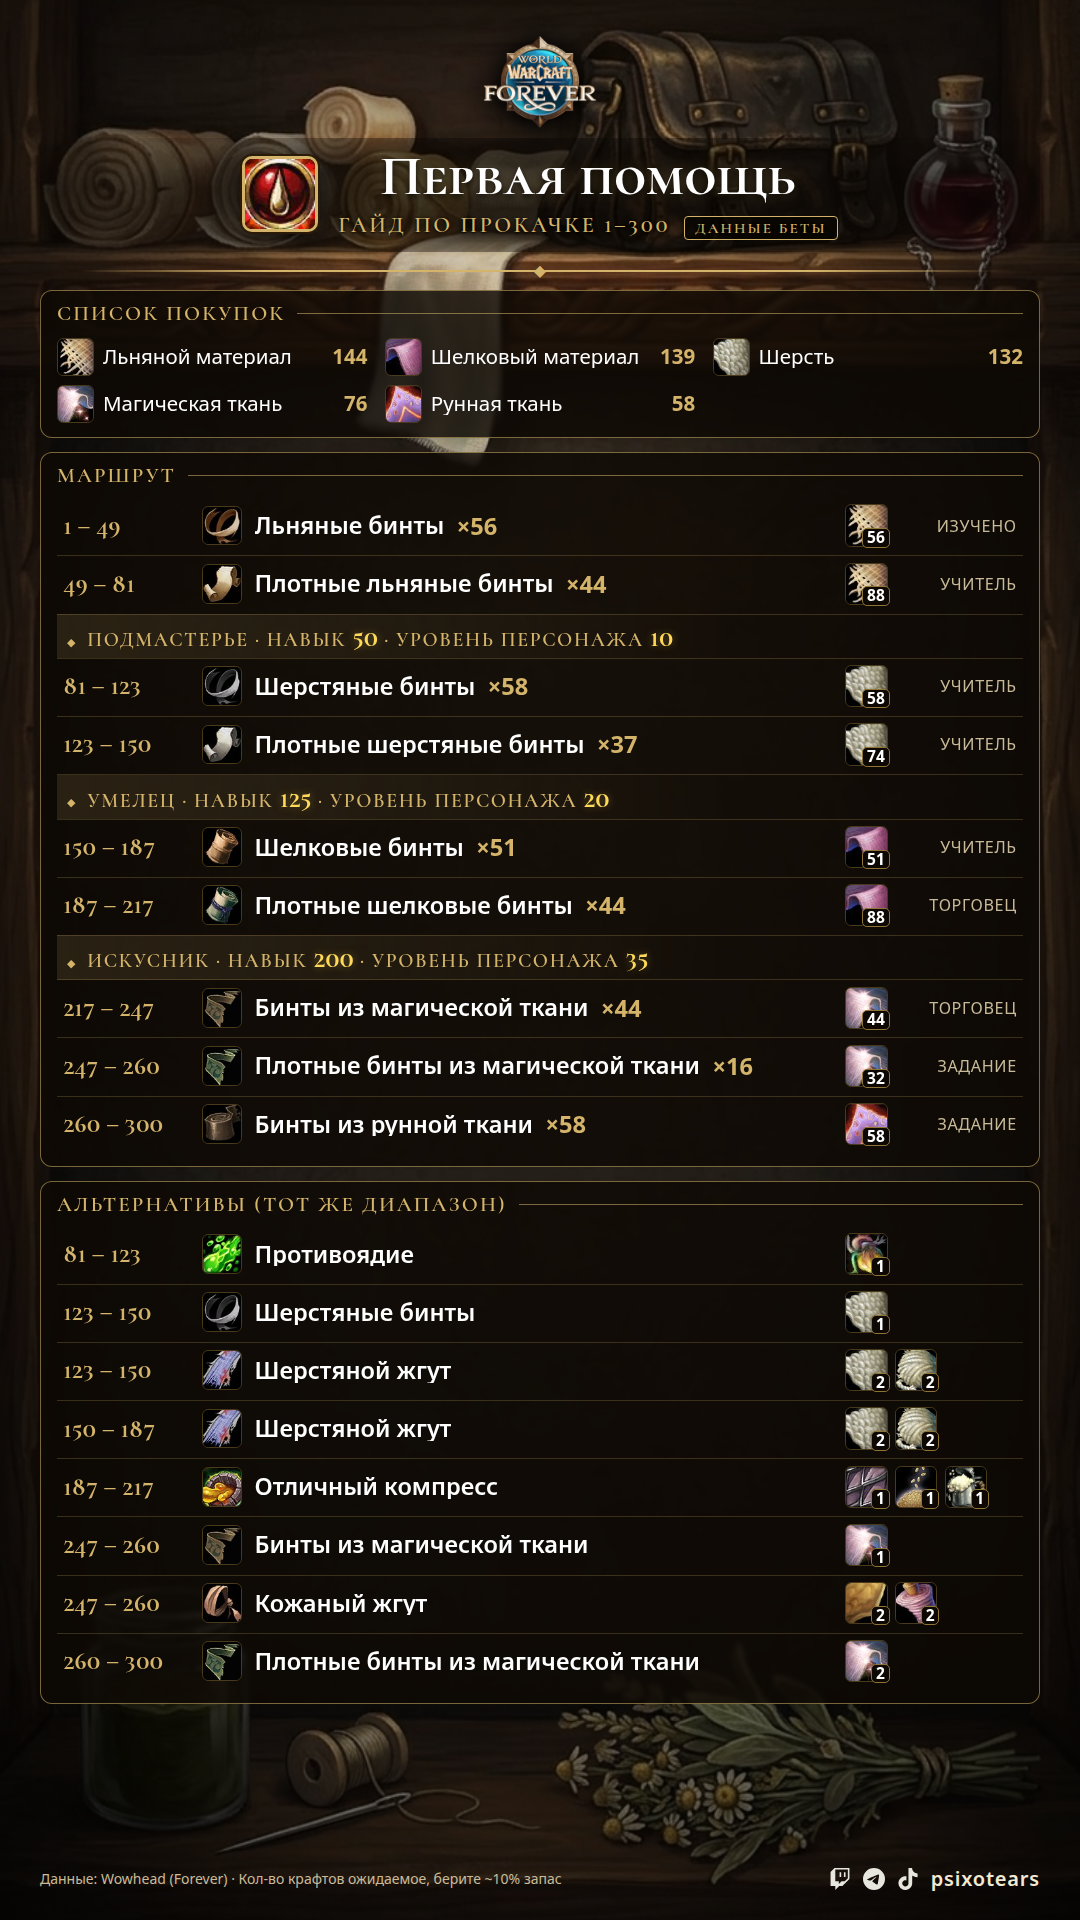
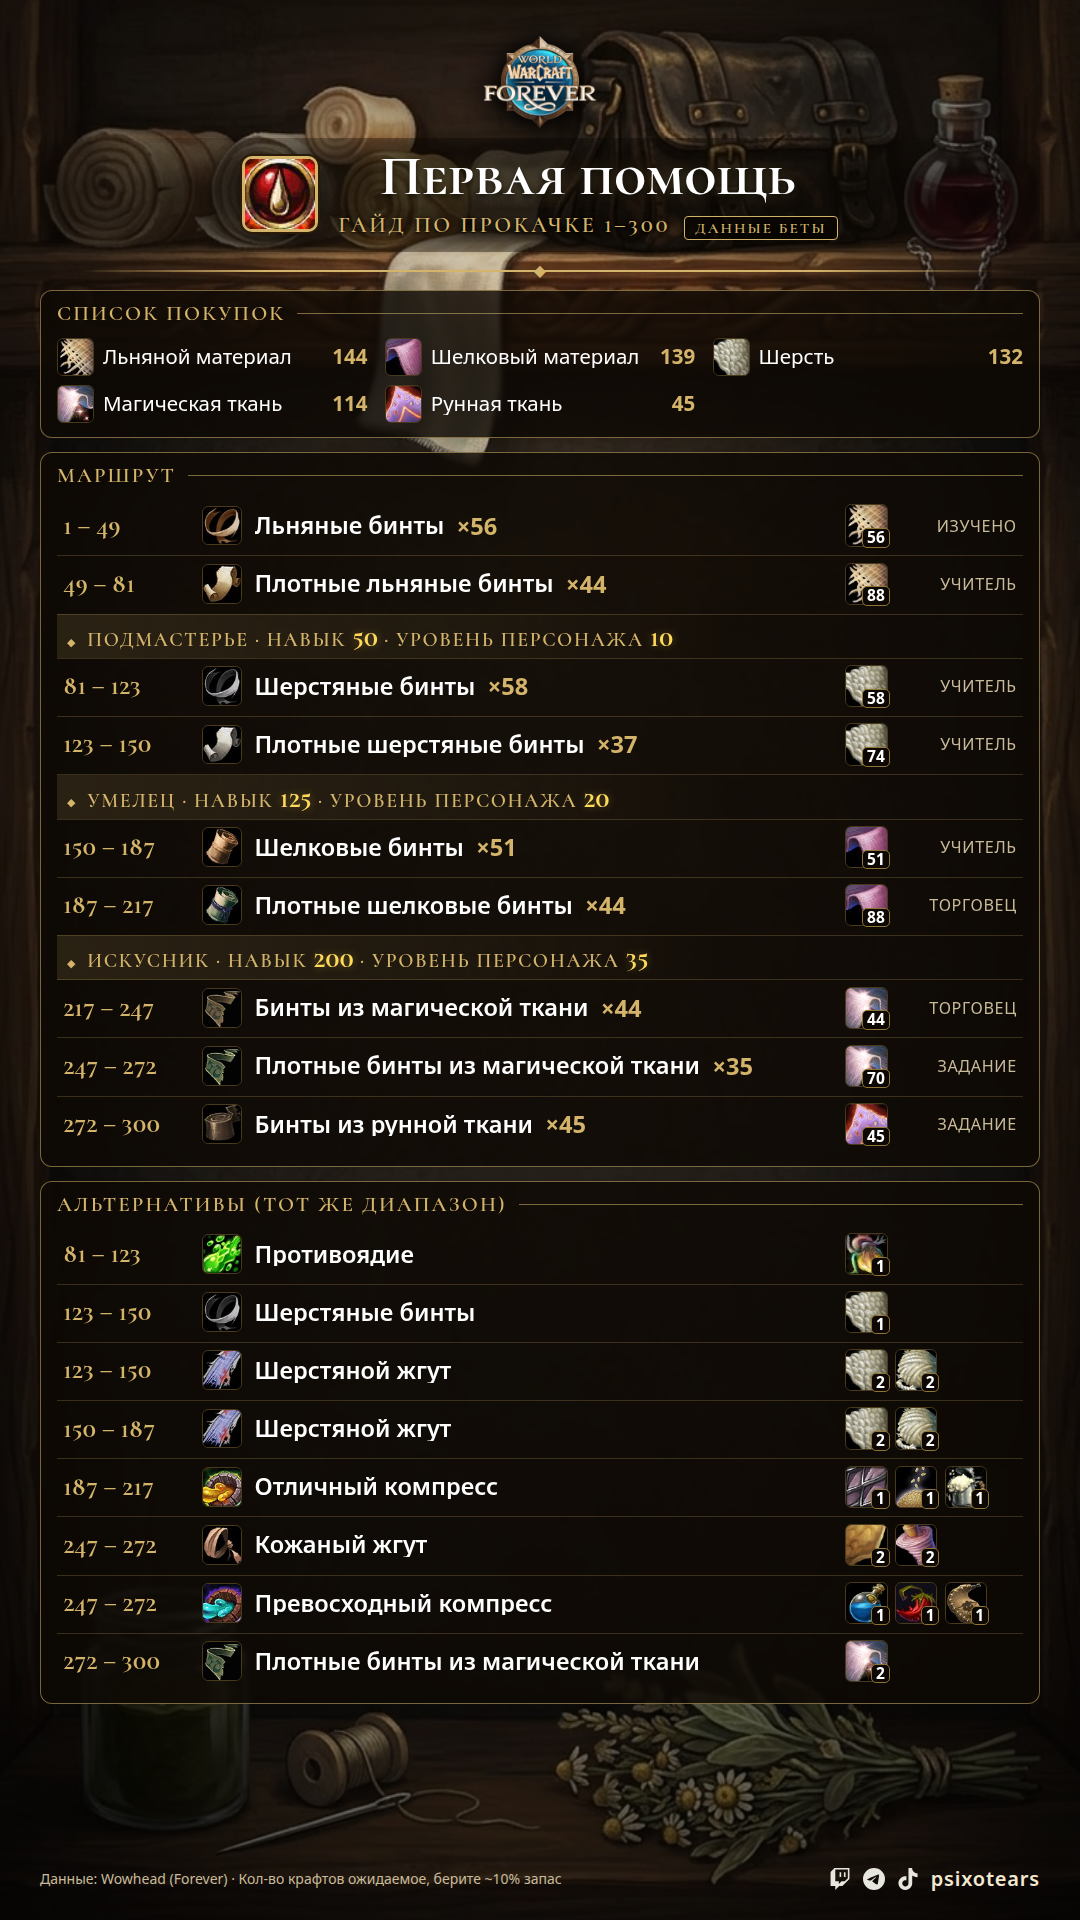
Routes: fill missing color thresholds, exclude rare/unnamed reagents, less fragmentation; 7-language item names; re-render RU crafting cards
Claude-Session: https://claude.ai/code/session_012e8LnHD2AptEEnhumMxWH2

diff --git a/wow-cards/pipeline/render.py b/wow-cards/pipeline/render.py
@@ -4,37 +4,81 @@ Usage: python3 render.py <profession> <lang> [background.png]  -> out/html/<prof
 import json, sys, os, html
 
 UI = {
-    'en': {'guide': 'Leveling Guide 1–300', 'shopping': 'Shopping List', 'ranknames': ['Journeyman', 'Expert', 'Artisan'], 'charlvl': 'character level', 'skilllbl': 'skill', 'steps': 'Route', 'alts': 'Alternatives (same skill range)', 'nodes': 'Nodes by skill', 'skill': 'Skill', 'where': 'Where to find', 'moblvl': 'Mob level', 'zones': 'Zones', 'ooze': 'also ooze-covered', 'nogetaway': 'No get-aways from', 'fishnote': 'Zone thresholds from WoW Classic — to be verified in the Forever beta', 'fguide': 'Fishing Guide 1–300', 'skinnote': 'Required skill: (mob level − 10) × 10 up to level 20, then mob level × 5', 'gguide': 'Gathering Guide 1–300', 'trainer': 'Trainer', 'vendor': 'Vendor',
+    'en': {'guide': 'Leveling Guide 1–300', 'shopping': 'Shopping List', 'steps': 'Route', 'trainer': 'Trainer', 'vendor': 'Vendor',
            'quest': 'Quest', 'auto': 'Starter', 'drop': 'Drop', 'unknown': '?', 'item?': '?',
+           'ranknames': ['Journeyman', 'Expert', 'Artisan'], 'charlvl': 'character level', 'skilllbl': 'skill',
+           'alts': 'Alternatives (same skill range)', 'nodes': 'Nodes by skill', 'skill': 'Skill', 'where': 'Where to find', 'moblvl': 'Mob level', 'zones': 'Zones',
+           'ooze': 'also ooze-covered', 'skinnote': 'Required skill: (mob level − 10) × 10 up to level 20, then mob level × 5', 'gguide': 'Gathering Guide 1–300',
+           'nogetaway': 'No get-aways from', 'fishnote': 'Zone thresholds from WoW Classic — to be verified in the Forever beta', 'fguide': 'Fishing Guide 1–300',
            'beta': 'BETA DATA', 'src': 'Data: Wowhead (Forever) · Craft counts are expected values, buy ~10% extra',
            'ranks': 'Journeyman 50 · Expert 125 · Artisan 200', 'title': 'World of Warcraft: Forever'},
-    'ru': {'guide': 'Гайд по прокачке 1–300', 'shopping': 'Список покупок', 'ranknames': ['Подмастерье', 'Умелец', 'Искусник'], 'charlvl': 'уровень персонажа', 'skilllbl': 'навык', 'steps': 'Маршрут', 'alts': 'Альтернативы (тот же диапазон)', 'nodes': 'Узлы по навыку', 'skill': 'Навык', 'where': 'Где искать', 'moblvl': 'Уровень мобов', 'zones': 'Зоны', 'ooze': 'есть и покрытые слизью', 'nogetaway': 'Без срывов от', 'fishnote': 'Пороги зон взяты из WoW Classic — требуют проверки в бете Forever', 'fguide': 'Гайд по рыбалке 1–300', 'skinnote': 'Нужный навык: (уровень моба − 10) × 10 до 20 ур., дальше уровень моба × 5', 'gguide': 'Гайд по добыче 1–300', 'trainer': 'Учитель', 'vendor': 'Торговец',
+    'ru': {'guide': 'Гайд по прокачке 1–300', 'shopping': 'Список покупок', 'steps': 'Маршрут', 'trainer': 'Учитель', 'vendor': 'Торговец',
            'quest': 'Задание', 'auto': 'Изучено', 'drop': 'Добыча', 'unknown': '?', 'item?': '?',
+           'ranknames': ['Подмастерье', 'Умелец', 'Искусник'], 'charlvl': 'уровень персонажа', 'skilllbl': 'навык',
+           'alts': 'Альтернативы (тот же диапазон)', 'nodes': 'Узлы по навыку', 'skill': 'Навык', 'where': 'Где искать', 'moblvl': 'Уровень мобов', 'zones': 'Зоны',
+           'ooze': 'есть и покрытые слизью', 'skinnote': 'Нужный навык: (уровень моба − 10) × 10 до 20 ур., дальше уровень моба × 5', 'gguide': 'Гайд по добыче 1–300',
+           'nogetaway': 'Без срывов от', 'fishnote': 'Пороги зон взяты из WoW Classic — требуют проверки в бете Forever', 'fguide': 'Гайд по рыбалке 1–300',
            'beta': 'ДАННЫЕ БЕТЫ', 'src': 'Данные: Wowhead (Forever) · Кол-во крафтов ожидаемое, берите ~10% запас',
            'ranks': 'Подмастерье 50 · Умелец 125 · Искусник 200', 'title': 'World of Warcraft: Forever'},
-    'cn': {'guide': '专业升级指南 1–300', 'shopping': '材料清单', 'ranknames': ['中级', '高级', '专家'], 'charlvl': '角色等级', 'skilllbl': '技能', 'steps': '路线', 'alts': '替代配方（同一区间）', 'nodes': '按技能等级的采集点', 'skill': '技能', 'where': '采集地点', 'moblvl': '怪物等级', 'zones': '区域', 'ooze': '含软泥覆盖变体', 'nogetaway': '不脱钩起始', 'fishnote': '区域门槛取自 WoW Classic，待 Forever 测试服验证', 'fguide': '钓鱼指南 1–300', 'skinnote': '所需技能：20级前为(怪物等级−10)×10，之后为怪物等级×5', 'gguide': '采集指南 1–300', 'trainer': '训练师', 'vendor': '商人',
+    'cn': {'guide': '专业升级指南 1–300', 'shopping': '材料清单', 'steps': '路线', 'trainer': '训练师', 'vendor': '商人',
            'quest': '任务', 'auto': '初始', 'drop': '掉落', 'unknown': '?', 'item?': '?',
+           'ranknames': ['中级', '高级', '专家'], 'charlvl': '角色等级', 'skilllbl': '技能',
+           'alts': '替代配方（同一区间）', 'nodes': '按技能等级的采集点', 'skill': '技能', 'where': '采集地点', 'moblvl': '怪物等级', 'zones': '区域',
+           'ooze': '含软泥覆盖变体', 'skinnote': '所需技能：20级前为(怪物等级−10)×10，之后为怪物等级×5', 'gguide': '采集指南 1–300',
+           'nogetaway': '不脱钩起始', 'fishnote': '区域门槛取自 WoW Classic，待 Forever 测试服验证', 'fguide': '钓鱼指南 1–300',
            'beta': '测试服数据', 'src': '数据：Wowhead (Forever) · 制作次数为期望值，建议多备约10%',
            'ranks': '中级 50 · 高级 125 · 专家 200', 'title': '魔兽世界：无限'},
+    'de': {'guide': 'Skillguide 1–300', 'shopping': 'Einkaufsliste', 'steps': 'Route', 'trainer': 'Lehrer', 'vendor': 'Händler',
+           'quest': 'Quest', 'auto': 'Start', 'drop': 'Drop', 'unknown': '?', 'item?': '?',
+           'ranknames': ['Geselle', 'Experte', 'Fachmann'], 'charlvl': 'Charakterstufe', 'skilllbl': 'Fertigkeit',
+           'alts': 'Alternativen (gleicher Bereich)', 'nodes': 'Vorkommen nach Fertigkeit', 'skill': 'Fertigkeit', 'where': 'Fundorte', 'moblvl': 'Mobstufe', 'zones': 'Zonen',
+           'ooze': 'auch schleimbedeckt', 'skinnote': 'Benötigte Fertigkeit: (Mobstufe − 10) × 10 bis Stufe 20, danach Mobstufe × 5', 'gguide': 'Sammelguide 1–300',
+           'nogetaway': 'Kein Entkommen ab', 'fishnote': 'Zonenwerte aus WoW Classic – in der Forever-Beta zu prüfen', 'fguide': 'Angelguide 1–300',
+           'beta': 'BETA-DATEN', 'src': 'Daten: Wowhead (Forever) · Anzahl = Erwartungswert, ~10 % Reserve einplanen',
+           'ranks': 'Geselle 50 · Experte 125 · Fachmann 200', 'title': 'World of Warcraft: Forever'},
+    'fr': {'guide': 'Guide de montée 1–300', 'shopping': "Liste d'achats", 'steps': 'Itinéraire', 'trainer': 'Maître', 'vendor': 'Vendeur',
+           'quest': 'Quête', 'auto': 'De base', 'drop': 'Butin', 'unknown': '?', 'item?': '?',
+           'ranknames': ['Compagnon', 'Expert', 'Artisan'], 'charlvl': 'niveau du personnage', 'skilllbl': 'compétence',
+           'alts': 'Alternatives (même plage)', 'nodes': 'Gisements par compétence', 'skill': 'Compétence', 'where': 'Où trouver', 'moblvl': 'Niveau des monstres', 'zones': 'Zones',
+           'ooze': 'aussi couverts de vase', 'skinnote': 'Compétence requise : (niveau du monstre − 10) × 10 jusqu\'au niveau 20, puis niveau × 5', 'gguide': 'Guide de récolte 1–300',
+           'nogetaway': 'Sans fuite dès', 'fishnote': 'Seuils de zones issus de WoW Classic – à vérifier sur la bêta Forever', 'fguide': 'Guide de pêche 1–300',
+           'beta': 'DONNÉES BÊTA', 'src': 'Données : Wowhead (Forever) · Nombres = valeurs attendues, prévoyez ~10 % de marge',
+           'ranks': 'Compagnon 50 · Expert 125 · Artisan 200', 'title': 'World of Warcraft: Forever'},
+    'es': {'guide': 'Guía de subida 1–300', 'shopping': 'Lista de compra', 'steps': 'Ruta', 'trainer': 'Instructor', 'vendor': 'Vendedor',
+           'quest': 'Misión', 'auto': 'Inicial', 'drop': 'Botín', 'unknown': '?', 'item?': '?',
+           'ranknames': ['Oficial', 'Experto', 'Artesano'], 'charlvl': 'nivel del personaje', 'skilllbl': 'habilidad',
+           'alts': 'Alternativas (mismo rango)', 'nodes': 'Vetas por habilidad', 'skill': 'Habilidad', 'where': 'Dónde encontrar', 'moblvl': 'Nivel de monstruos', 'zones': 'Zonas',
+           'ooze': 'también cubiertas de moco', 'skinnote': 'Habilidad necesaria: (nivel del monstruo − 10) × 10 hasta nivel 20, luego nivel × 5', 'gguide': 'Guía de recolección 1–300',
+           'nogetaway': 'Sin escapes desde', 'fishnote': 'Umbrales de zona de WoW Classic; pendientes de verificar en la beta de Forever', 'fguide': 'Guía de pesca 1–300',
+           'beta': 'DATOS DE BETA', 'src': 'Datos: Wowhead (Forever) · Cantidades esperadas, compra ~10 % extra',
+           'ranks': 'Oficial 50 · Experto 125 · Artesano 200', 'title': 'World of Warcraft: Forever'},
+    'ko': {'guide': '숙련도 가이드 1–300', 'shopping': '구매 목록', 'steps': '경로', 'trainer': '전문 기술 훈련사', 'vendor': '상인',
+           'quest': '퀘스트', 'auto': '기본', 'drop': '드랍', 'unknown': '?', 'item?': '?',
+           'ranknames': ['숙련공', '전문가', '장인'], 'charlvl': '캐릭터 레벨', 'skilllbl': '숙련도',
+           'alts': '대체 제작법 (같은 구간)', 'nodes': '숙련도별 채집물', 'skill': '숙련도', 'where': '위치', 'moblvl': '몬스터 레벨', 'zones': '지역',
+           'ooze': '진흙 덮인 변형 포함', 'skinnote': '필요 숙련도: 20레벨까지 (몬스터 레벨 − 10) × 10, 이후 몬스터 레벨 × 5', 'gguide': '채집 가이드 1–300',
+           'nogetaway': '놓침 없음', 'fishnote': '지역 기준은 WoW 클래식 자료 – Forever 베타에서 확인 필요', 'fguide': '낚시 가이드 1–300',
+           'beta': '베타 데이터', 'src': '자료: Wowhead (Forever) · 제작 횟수는 기대값, ~10% 여유분 권장',
+           'ranks': '숙련공 50 · 전문가 125 · 장인 200', 'title': 'World of Warcraft: Forever'},
 }
 PROF_NAMES = {
-    'alchemy': {'en': 'Alchemy', 'ru': 'Алхимия', 'cn': '炼金术'},
-    'blacksmithing': {'en': 'Blacksmithing', 'ru': 'Кузнечное дело', 'cn': '锻造'},
-    'enchanting': {'en': 'Enchanting', 'ru': 'Наложение чар', 'cn': '附魔'},
-    'engineering': {'en': 'Engineering', 'ru': 'Инженерное дело', 'cn': '工程学'},
-    'leatherworking': {'en': 'Leatherworking', 'ru': 'Кожевничество', 'cn': '制皮'},
-    'tailoring': {'en': 'Tailoring', 'ru': 'Портняжное дело', 'cn': '裁缝'},
-    'cooking': {'en': 'Cooking', 'ru': 'Кулинария', 'cn': '烹饪'},
-    'first-aid': {'en': 'First Aid', 'ru': 'Первая помощь', 'cn': '急救'},
-    'mining': {'en': 'Mining', 'ru': 'Горное дело', 'cn': '采矿'},
-    'herbalism': {'en': 'Herbalism', 'ru': 'Травничество', 'cn': '草药学'},
-    'skinning': {'en': 'Skinning', 'ru': 'Снятие шкур', 'cn': '剥皮'},
-    'fishing': {'en': 'Fishing', 'ru': 'Рыбная ловля', 'cn': '钓鱼'},
+    'alchemy': {'en': 'Alchemy', 'ru': 'Алхимия', 'cn': '炼金术', 'de': 'Alchemie', 'fr': 'Alchimie', 'es': 'Alquimia', 'ko': '연금술'},
+    'blacksmithing': {'en': 'Blacksmithing', 'ru': 'Кузнечное дело', 'cn': '锻造', 'de': 'Schmiedekunst', 'fr': 'Forge', 'es': 'Herrería', 'ko': '대장기술'},
+    'enchanting': {'en': 'Enchanting', 'ru': 'Наложение чар', 'cn': '附魔', 'de': 'Verzauberkunst', 'fr': 'Enchantement', 'es': 'Encantamiento', 'ko': '마법부여'},
+    'engineering': {'en': 'Engineering', 'ru': 'Инженерное дело', 'cn': '工程学', 'de': 'Ingenieurskunst', 'fr': 'Ingénierie', 'es': 'Ingeniería', 'ko': '기계공학'},
+    'leatherworking': {'en': 'Leatherworking', 'ru': 'Кожевничество', 'cn': '制皮', 'de': 'Lederverarbeitung', 'fr': 'Travail du cuir', 'es': 'Marroquinería', 'ko': '가죽 세공'},
+    'tailoring': {'en': 'Tailoring', 'ru': 'Портняжное дело', 'cn': '裁缝', 'de': 'Schneiderei', 'fr': 'Couture', 'es': 'Sastrería', 'ko': '재봉술'},
+    'cooking': {'en': 'Cooking', 'ru': 'Кулинария', 'cn': '烹饪', 'de': 'Kochkunst', 'fr': 'Cuisine', 'es': 'Cocina', 'ko': '요리'},
+    'first-aid': {'en': 'First Aid', 'ru': 'Первая помощь', 'cn': '急救', 'de': 'Erste Hilfe', 'fr': 'Secourisme', 'es': 'Primeros auxilios', 'ko': '응급치료'},
+    'mining': {'en': 'Mining', 'ru': 'Горное дело', 'cn': '采矿', 'de': 'Bergbau', 'fr': 'Minage', 'es': 'Minería', 'ko': '채광'},
+    'herbalism': {'en': 'Herbalism', 'ru': 'Травничество', 'cn': '草药学', 'de': 'Kräuterkunde', 'fr': 'Herboristerie', 'es': 'Herboristería', 'ko': '약초채집'},
+    'skinning': {'en': 'Skinning', 'ru': 'Снятие шкур', 'cn': '剥皮', 'de': 'Kürschnerei', 'fr': 'Dépeçage', 'es': 'Desuello', 'ko': '무두질'},
+    'fishing': {'en': 'Fishing', 'ru': 'Рыбная ловля', 'cn': '钓鱼', 'de': 'Angeln', 'fr': 'Pêche', 'es': 'Pesca', 'ko': '낚시'},
 }
 SKILL_ICON = {**json.load(open('data/skill_icons.json')), 'First Aid': 'spell_holy_sealofsacrifice', 'Fishing': 'trade_fishing', 'Mining': 'trade_mining'}
 QCOLOR = {0: '#9d9d9d', 1: '#ffffff', 2: '#1eff00', 3: '#0070dd', 4: '#a335ee', 5: '#ff8000'}
-HEAD_FONT = {'en': "'Cinzel', serif", 'ru': "'Cormorant SC', 'Cinzel', serif", 'cn': "'Noto Serif SC', serif"}
-BODY_FONT = {'en': "'Noto Sans', sans-serif", 'ru': "'Noto Sans', sans-serif", 'cn': "'Noto Sans SC', 'Noto Sans', sans-serif"}
+HEAD_FONT = {'en': "'Cinzel', serif", 'ru': "'Cormorant SC', 'Cinzel', serif", 'cn': "'Noto Serif SC', serif", 'de': "'Cinzel', serif", 'fr': "'Cinzel', serif", 'es': "'Cinzel', serif", 'ko': "'Cinzel', 'Noto Serif KR', serif"}
+BODY_FONT = {'en': "'Noto Sans', sans-serif", 'ru': "'Noto Sans', sans-serif", 'cn': "'Noto Sans SC', 'Noto Sans', sans-serif", 'de': "'Noto Sans', sans-serif", 'fr': "'Noto Sans', sans-serif", 'es': "'Noto Sans', sans-serif", 'ko': "'Noto Sans KR', 'Noto Sans', sans-serif"}
 
 CSS = """
 @import url('../../fonts/fonts.css');

diff --git a/wow-cards/pipeline/route.py b/wow-cards/pipeline/route.py
@@ -13,7 +13,7 @@ SPELLS = {int(k): v for k, v in json.load(open('data/spells.json')).items()}
 TRAINER, VENDOR, QUEST = 6, 5, 4
 import re
 ONCE = re.compile(r"Runed .* Rod|Camp Tent|Tanning Rack|Sewing Machine|Anvil|Forge$|Workbench|Alchemy Lab|Loom|Grindstone", re.I)
-LANGS = ('en', 'ru', 'cn')
+LANGS = ('en', 'ru', 'cn', 'de', 'fr', 'es', 'ko')
 OTHER_PROF_PRODUCTS = {}
 # manual fixes from guides/beta reports (spell id -> source, learnedat)
 OVERRIDE_SRC = {7418: 'auto', 18629: 'quest', 14530: 'quest', 10841: 'quest', 22813: 'quest', 9980: 'quest', 7421: 'auto'}
@@ -69,9 +69,32 @@ def chance(r, s):
     return max(0.05, 0.6 - 0.5 * (s - g) / max(1, gr - g))
 
 
+def normalize_colors(r):
+    """Wowhead Forever lacks thresholds for some recipes. [o,0,o,o] (vendor gear): Classic-like +5/+12/+20.
+    [o,0,0,o] (leather/bolt conversions): short window +3/+6/+10."""
+    o, y, g, gr = r['colors']
+    base = o or y
+    if not base:
+        return
+    if not y and not g and gr == o:
+        r['colors'] = [o, o + 3, o + 6, o + 10]
+        return
+    if not y:
+        y = base
+    if not g or g <= y:
+        g = y + 12
+    if not gr or gr <= g:
+        gr = max(g + 8, y + 20)
+    r['colors'] = [o, y, g, gr]
+
+
 def eligible(recipes, max_skill=300):
     out = []
     for r in recipes:
+        if r.get('colors'):
+            normalize_colors(r)
+        if any(ITEMS.get(i, {}).get('quality', 1) >= 3 or not ITEMS.get(i, {}).get('name_en') for i, _ in r.get('reagents', [])):
+            continue                  # rare (blue+) or unnamed reagents: never a leveling route
         if r['id'] in OVERRIDE_LEARN:
             r['learnedat'] = OVERRIDE_LEARN[r['id']]
         if r['id'] in OVERRIDE_SRC and OVERRIDE_SRC[r['id']] in ('quest',) and not r.get('source'):
@@ -104,7 +127,7 @@ def matcost(r, price):
     return c
 
 
-def greedy(recipes, price, max_skill, cost_fn=None, switch_penalty=0.35, min_run=8):
+def greedy(recipes, price, max_skill, cost_fn=None, switch_penalty=0.4, min_run=10):
     cost_fn = cost_fn or (lambda r, p, made: matcost(r, p))
     s, cur, steps = 1, None, []
     made = defaultdict(float)
@@ -143,7 +166,7 @@ def greedy(recipes, price, max_skill, cost_fn=None, switch_penalty=0.35, min_run
     return steps
 
 
-def merge_small(steps, max_skill, tiny=3):
+def merge_small(steps, max_skill, tiny=4):
     """Fold steps of <= tiny points into a neighbour whose recipe still skills up there."""
     changed = True
     while changed:

diff --git a/wow-cards/pipeline/build_items.py b/wow-cards/pipeline/build_items.py
@@ -1,12 +1,15 @@
 """Build items.json / spells.json from WH.Gatherer.addData blocks embedded in the raw profession pages (en/ru/cn)."""
 import re, json, glob, os
 
-LANGS = {'www': 'en', 'ru': 'ru', 'cn': 'cn'}
-NAME_KEYS = {'en': ['name_enus', 'name'], 'ru': ['name_ruru', 'name'], 'cn': ['name_zhcn', 'name']}
+LANGS = {'www': 'en', 'ru': 'ru', 'cn': 'cn', 'de': 'de', 'fr': 'fr', 'es': 'es', 'ko': 'ko'}
+NAME_KEYS = {'en': ['name_enus', 'name'], 'ru': ['name_ruru', 'name'], 'cn': ['name_zhcn', 'name'], 'de': ['name_dede', 'name'], 'fr': ['name_frfr', 'name'], 'es': ['name_eses', 'name'], 'ko': ['name_kokr', 'name']}
 
-items, spells = {}, {}
+items = {int(k): v for k, v in json.load(open('data/items.json')).items()} if os.path.exists('data/items.json') else {}   # keep node-product entries
+spells = {}
 for f in sorted(glob.glob('raw/*.html')):
     prof, sub = os.path.basename(f)[:-5].rsplit('_', 1)
+    if sub not in LANGS or prof.startswith('obj_'):
+        continue
     lang = LANGS[sub]
     h = open(f, encoding='utf-8').read()
     for m in re.finditer(r'WH\.Gatherer\.addData\((\d+),\s*(\d+),\s*(\{.*?\})\);\n', h, re.S):
@@ -41,7 +44,7 @@ for f in glob.glob('data/*_en.json'):
             need.update(i for i, _ in r['reagents'])
             if r.get('creates'):
                 need.add(r['creates'][0])
-miss = {l: [i for i in need if not items.get(i, {}).get('name_' + l)] for l in ('en', 'ru', 'cn')}
+miss = {l: [i for i in need if not items.get(i, {}).get('name_' + l)] for l in ('en', 'ru', 'cn', 'de', 'fr', 'es', 'ko')}
 print('items', len(items), 'spells', len(spells), 'needed', len(need), 'missing per lang', {l: len(v) for l, v in miss.items()})
 print('missing en sample', sorted(miss['en'])[:15])
 print('no icon among needed', sum(1 for i in need if not items.get(i, {}).get('icon')))
